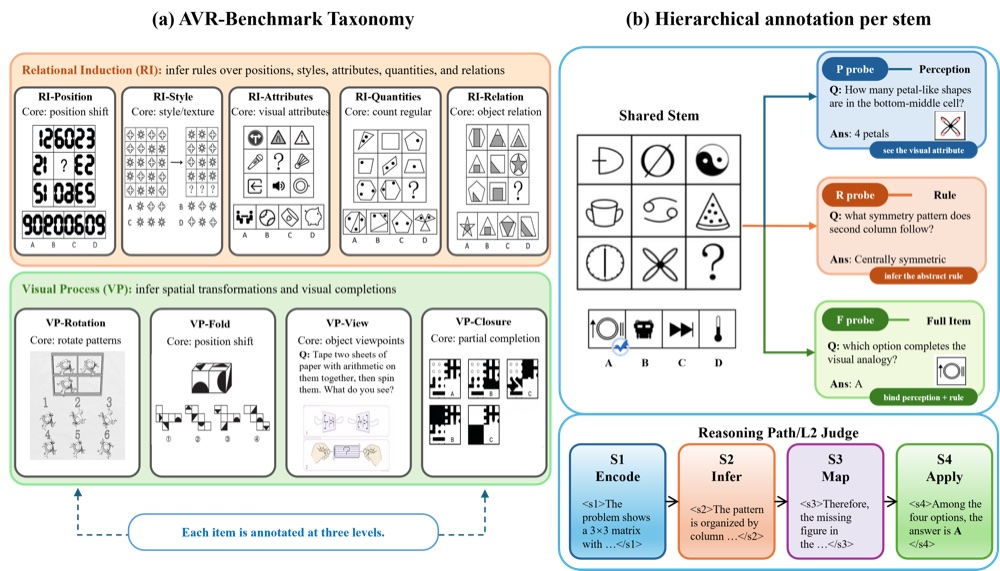
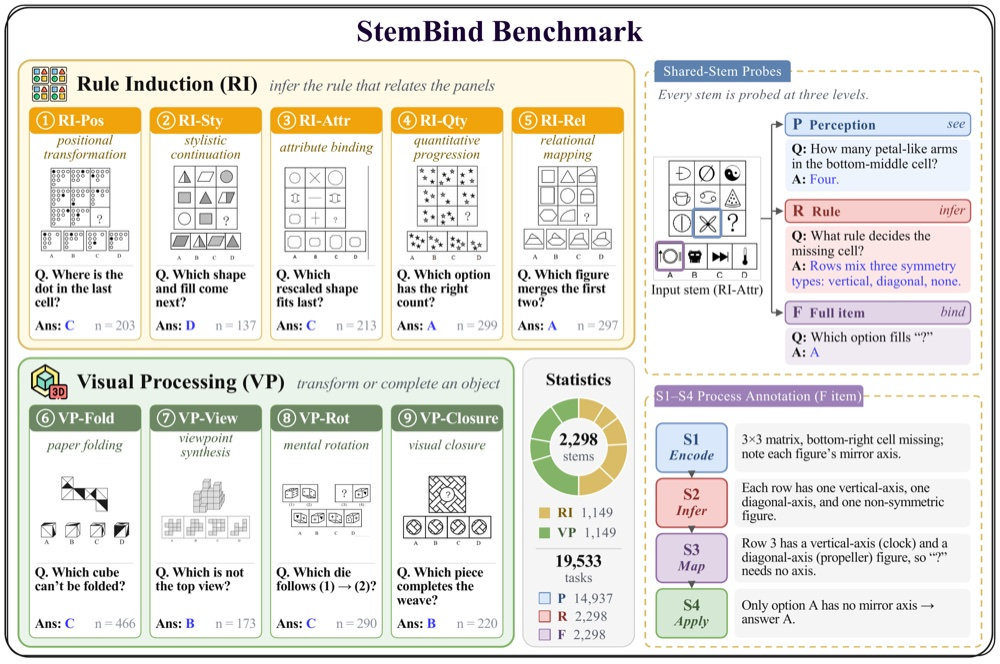
Use new StemBind teaser and list preprints first

diff --git a/_pages/about.md b/_pages/about.md
@@ -102,9 +102,25 @@ I am always glad to talk about research or collaboration &mdash; feel free to re
 
 # 📝 Publications
 
+<h2 id="preprints">Preprints</h2>
+
+<div class='paper-box'><div class='paper-box-image'><div><div class="badge">Preprint</div><img src='images/pub/mtsdpo.jpg' alt="MT-SDPO: answer-verified multi-teacher self-distillation pipeline" width="100%"></div></div>
+<div class='paper-box-text' markdown="1">
+
+[**Learn from Whoever Is Right: Answer-Verified Multi-Teacher Distillation for Multi-Domain LLMs**](https://arxiv.org/abs/2609.02548)
+
+🧑💻 **Xixiang He**, Xingming Li, Baiqi Wu, Qiyao Sun, Xuanyu Ji, Ao Cheng, Qingyong Hu#
+
+arXiv preprint, 2026.
+
+[[Paper]](https://arxiv.org/abs/2609.02548) \| [[Github]](https://github.com/hexixiang/MT-SDPO)
+
+</div>
+</div>
+
 <h2 id="accepted-papers">Accepted Papers</h2>
 
-<div class='paper-box'><div class='paper-box-image'><div><div class="badge">NeurIPS 2026</div><img src='images/pub/stembind.jpg' alt="StemBind benchmark taxonomy and hierarchical P/R/F annotation per shared stem" width="100%"></div></div>
+<div class='paper-box'><div class='paper-box-image'><div><div class="badge">NeurIPS 2026</div><img src='images/pub/stembind.jpg' alt="StemBind overview: nine operations, shared-stem P/R/F probes, and S1-S4 process annotation" width="100%"></div></div>
 <div class='paper-box-text' markdown="1">
 
 [**StemBind: When MLLMs Get Lost Between Rules and Instances in Abstract Visual Reasoning**](https://arxiv.org/abs/2606.00148)
@@ -184,22 +200,6 @@ I am always glad to talk about research or collaboration &mdash; feel free to re
 🏛 IEEE International Conference on Multimedia and Expo **(ICME)**, 2025. <font color="red">CCF B</font>.
 
 [[Paper]](https://arxiv.org/abs/2507.03673) \| [[Github]](https://github.com/hexixiang/TACOS)
-
-</div>
-</div>
-
-<h2 id="preprints">Preprints</h2>
-
-<div class='paper-box'><div class='paper-box-image'><div><div class="badge">Preprint</div><img src='images/pub/mtsdpo.jpg' alt="MT-SDPO: answer-verified multi-teacher self-distillation pipeline" width="100%"></div></div>
-<div class='paper-box-text' markdown="1">
-
-[**Learn from Whoever Is Right: Answer-Verified Multi-Teacher Distillation for Multi-Domain LLMs**](https://arxiv.org/abs/2609.02548)
-
-🧑💻 **Xixiang He**, Xingming Li, Baiqi Wu, Qiyao Sun, Xuanyu Ji, Ao Cheng, Qingyong Hu#
-
-arXiv preprint, 2026.
-
-[[Paper]](https://arxiv.org/abs/2609.02548) \| [[Github]](https://github.com/hexixiang/MT-SDPO)
 
 </div>
 </div>
